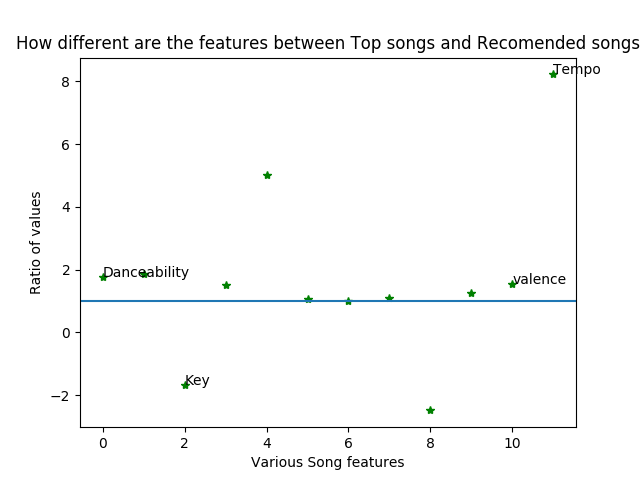
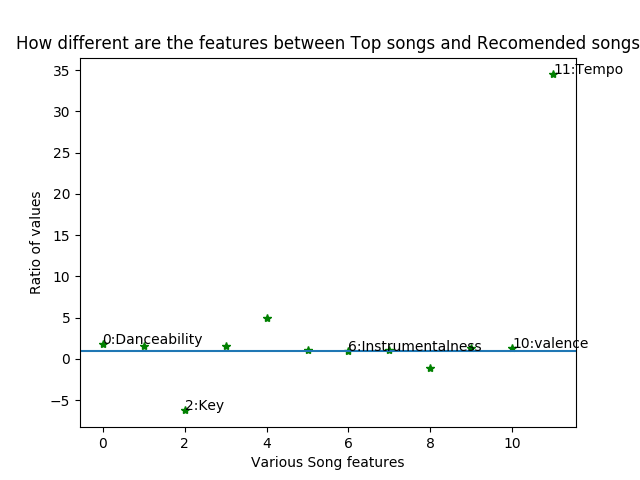
added more titles

diff --git a/src/songStats.py b/src/songStats.py
@@ -130,10 +130,11 @@ def reversRec(sp, userID):
 	plt.plot(num,TruDiff,'g*')
 	plt.hold(True)
 	plt.axhline(y=1,xmin=0,xmax=1)
-	plt.text(num[10],TruDiff[10],'valence')
-	plt.text(num[2],TruDiff[2],'Key')
-	plt.text(num[11],TruDiff[11],'Tempo')
-	plt.text(num[0],TruDiff[0],'Danceability')
+	plt.text(num[10],TruDiff[10],'10:valence')
+	plt.text(num[2],TruDiff[2],'2:Key')
+	plt.text(num[11],TruDiff[11],'11:Tempo')
+	plt.text(num[0],TruDiff[0],'0:Danceability')
+	plt.text(num[6],TruDiff[6], '6:Instrumentalness')
 	plt.title("How different are the features between Top songs and Recomended songs")
 	plt.xlabel("Various Song features")
 	plt.ylabel("Ratio of values")
